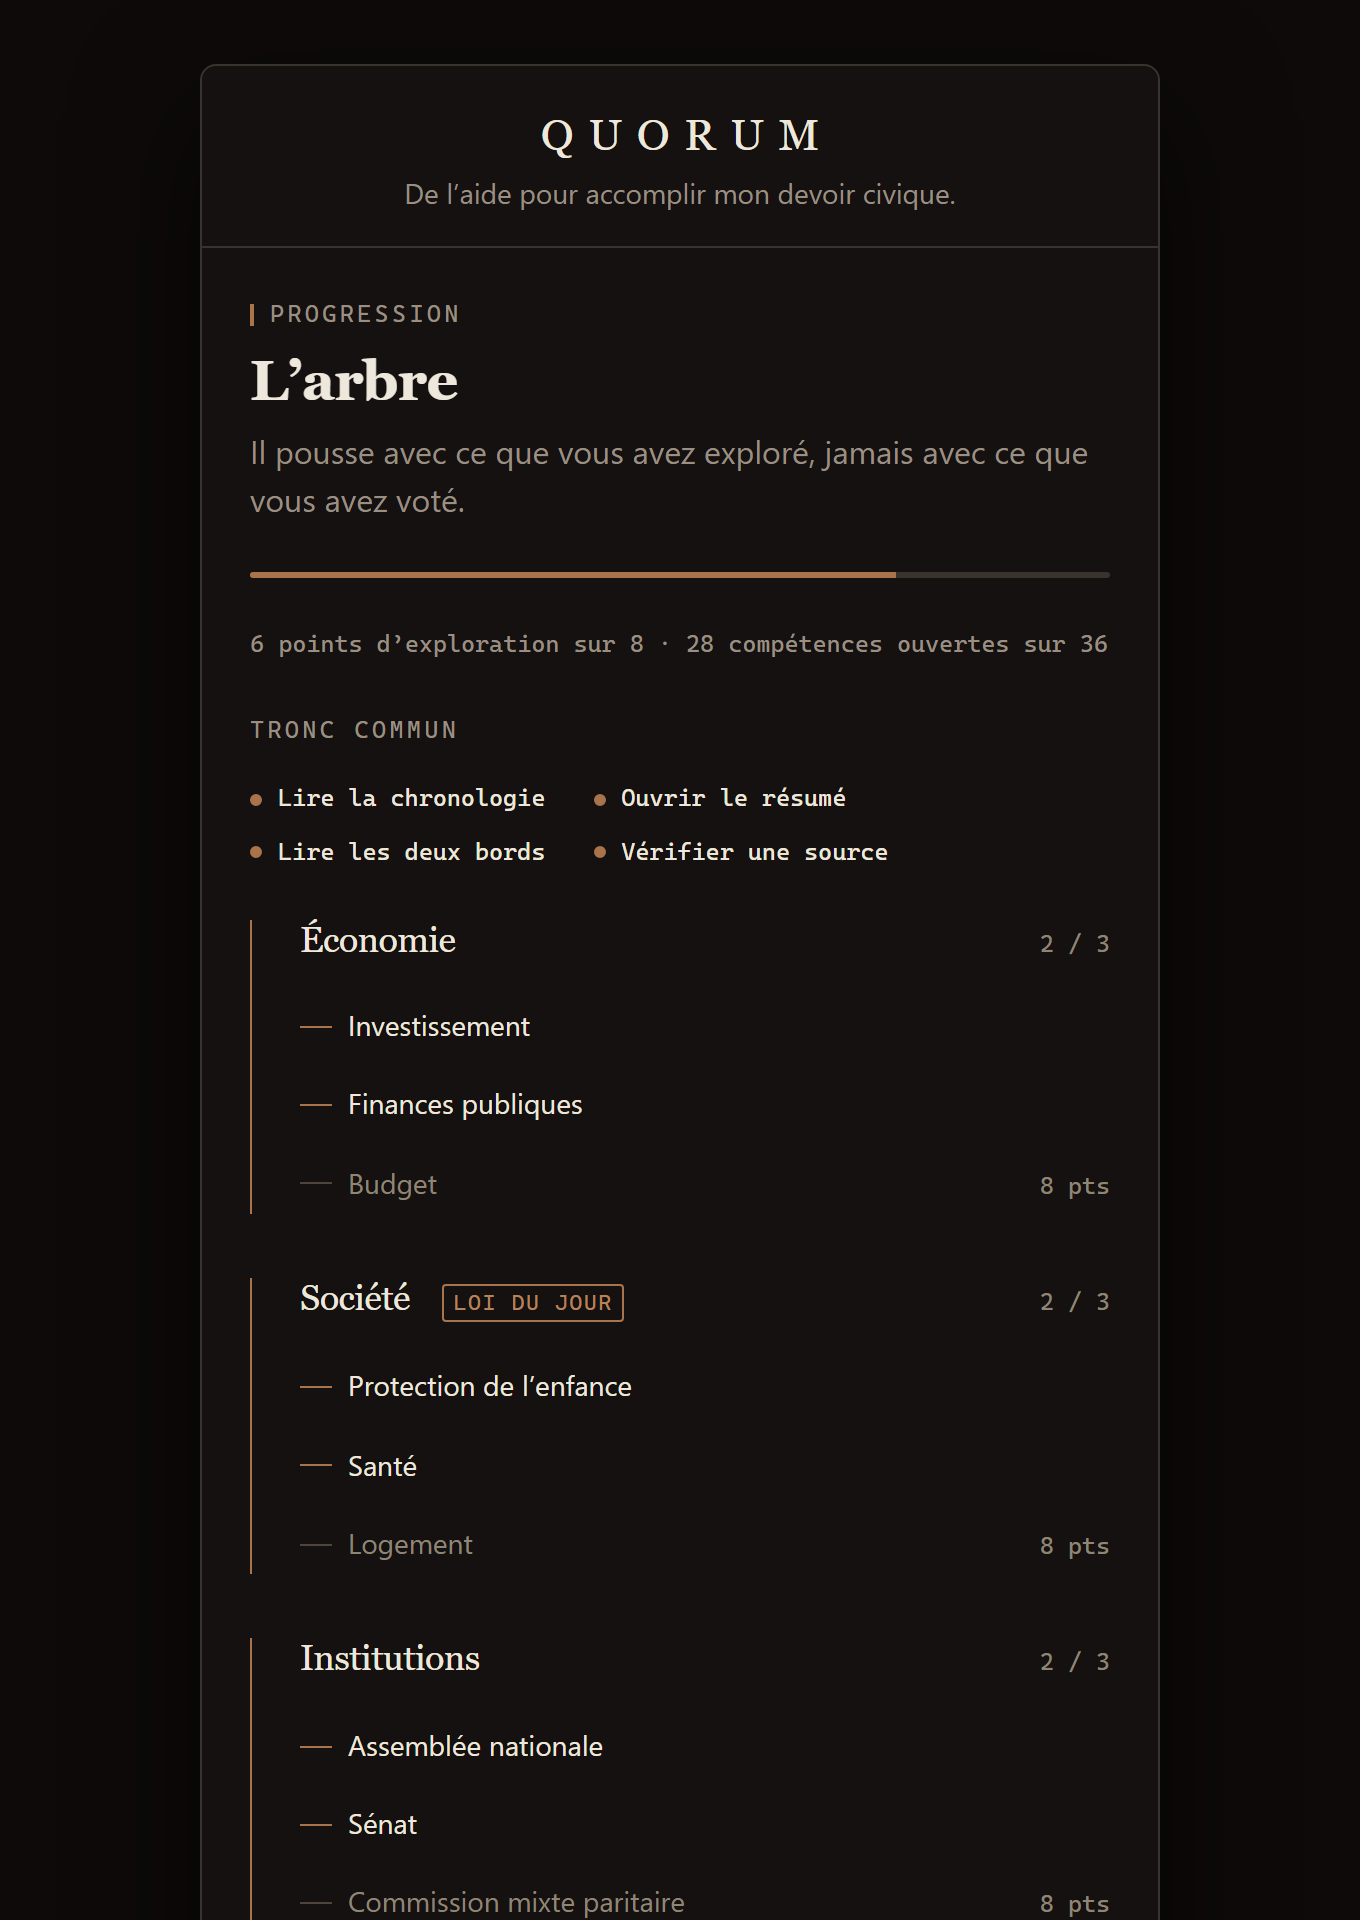
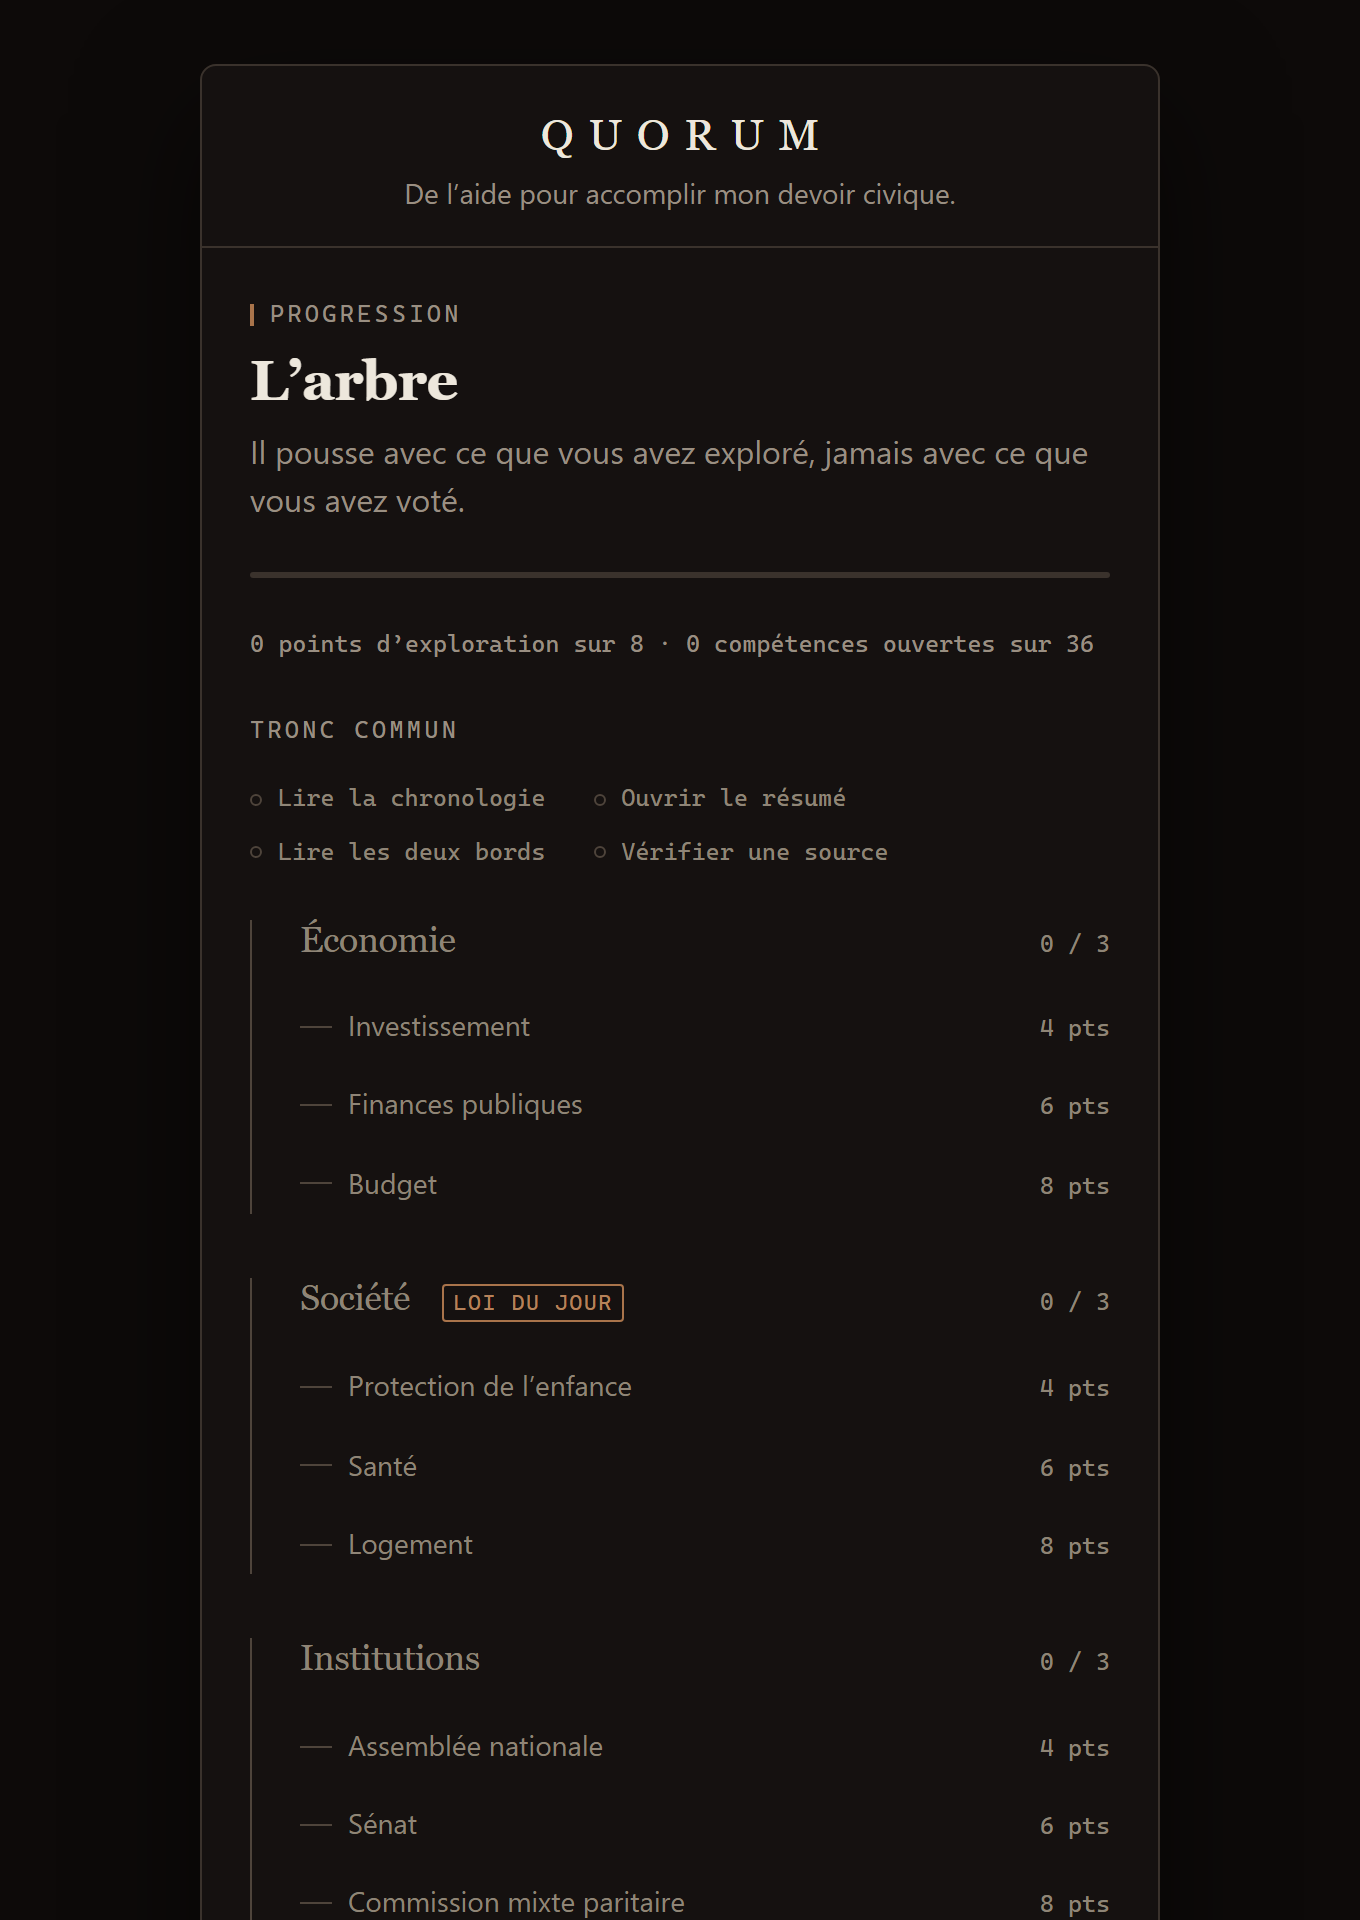
Captures: etat vierge par ecran, parcours en trois phases dans le README

diff --git a/README.md b/README.md
@@ -16,19 +16,27 @@ Puis vous votez. Pour vous. Sans compte, sans avis de l'application, sans classe
 ## Le parcours
 
 Un devoir se lit dans l'ordre où une loi se fait, pas dans l'ordre où un fil
-d'actualité la raconte.
+d'actualité la raconte. Dix étapes, en trois temps.
+
+**Avant votre vote**
 
 1. **La chronologie** — du dépôt du texte au vote, chaque étape datée, avec sa source.
-2. **Le résumé et le texte entier** — ce que change la loi, puis l'article travaillé
-   mot pour mot, alinéa par alinéa.
-3. **Votre vote** — après avoir lu, pas avant.
-4. **Les chiffres** — pour, contre, abstentions, votants, exprimés, et la règle appliquée.
-5. **Le débat, mot pour mot** — trois voix de chaque côté, recopiées des comptes rendus.
-6. **Les chiffres vérifiés** — ce que les députés ont affirmé, confronté à une source,
+2. **Le résumé** — ce que change la loi, en quelques phrases sourcées.
+3. **L'article entier** — le texte travaillé mot pour mot, alinéa par alinéa.
+
+**Votre premier vote**
+
+4. **Votre vote** — après avoir lu, pas avant.
+
+**Après votre vote**
+
+5. **Les chiffres** — pour, contre, abstentions, votants, exprimés, et la règle appliquée.
+6. **Le débat, mot pour mot** — trois voix de chaque côté, recopiées des comptes rendus.
+7. **Les chiffres vérifiés** — ce que les députés ont affirmé, confronté à une source,
    avec un verdict qui ne dit jamais si la loi est bonne.
-7. **La presse** — les titres des journaux, tels quels, avec leur date et leur lien.
-8. **Votre vote final** — le même vote ou un autre ; l'application ne commente ni l'un ni l'autre.
-9. **La carte** — l'hémicycle, un point par siège, pour situer le scrutin et votre position.
+8. **La presse** — les titres des journaux, tels quels, avec leur date et leur lien.
+9. **Votre vote final** — le même vote ou un autre ; l'application ne commente ni l'un ni l'autre.
+10. **La carte** — l'hémicycle, un point par siège, pour situer le scrutin et votre position.
 
 ## Les évolutions possibles
 
@@ -273,6 +281,8 @@ node scripts/captures.mjs       # captures du README, 680 px
 - `preuve-gate.mjs` doit rendre `Preuve tenue : 12 cas sur 12.`
 - `mobile.mjs` et `captures.mjs` pilotent le Chrome installé via le protocole DevTools,
   sur un serveur déjà lancé à `http://127.0.0.1:8000`. Chrome absent : définir `CHROME_PATH`.
+  `captures.mjs` part d'une mémoire locale vierge pour chaque écran : aucune capture ne
+  montre un vote ni une progression héritée d'un autre écran.
 
 Règles de contribution :
 
